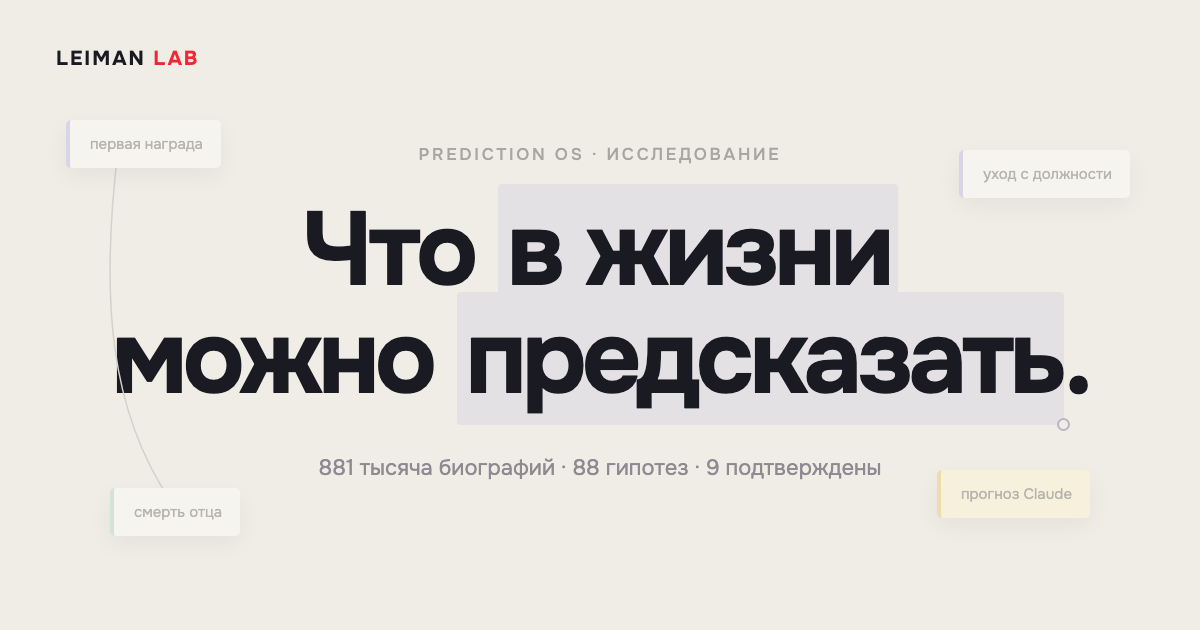
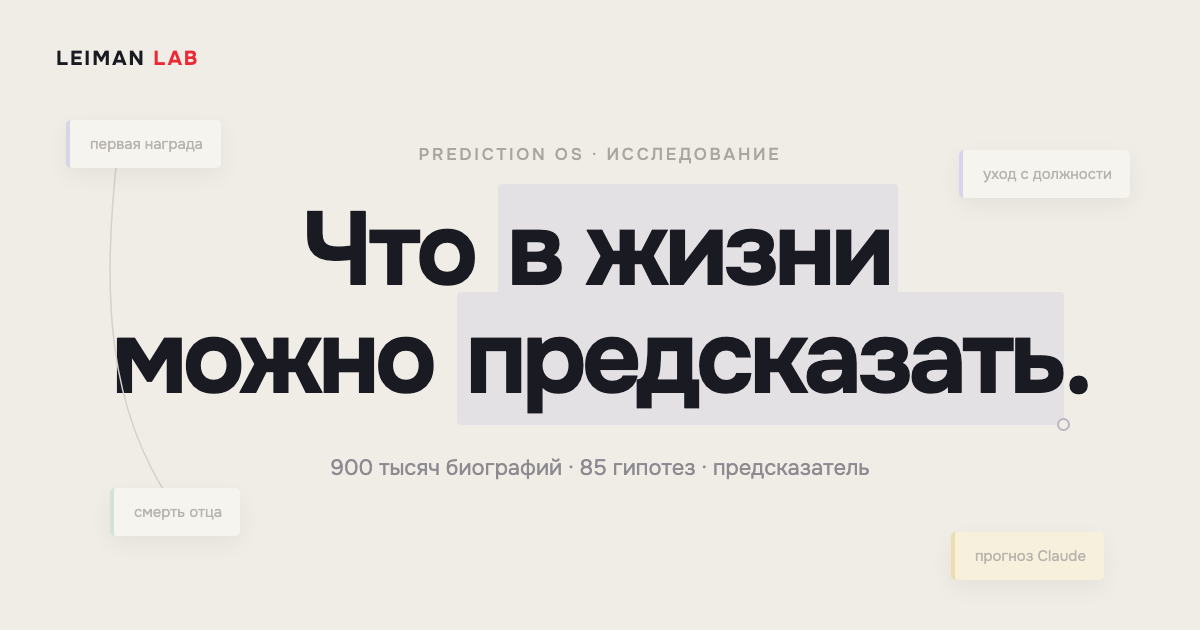
Prediction OS page: quiz "Спросите предсказателя" and results of 17.11
- 10-question quiz in the browser: lifespan shift, recognition, marriage,
  stress (Holmes-Rahe), early mood, self-employment cards from confirmed results
- Stats 900k people, 85 of 88 tested; early Olympic medal finding; what did not hold
- Share cover and description updated

Changed region(s): [[0.2467, 0.7238, 0.74, 0.754], [0.7708, 0.8444, 0.925, 0.9048], [0.7708, 0.754, 0.8942, 0.8143]]

diff --git a/leiman-lab-journal/public/assets/predictions-quiz.js b/leiman-lab-journal/public/assets/predictions-quiz.js
@@ -1,0 +1,179 @@
+/* Prediction OS quiz: answers stay in the browser; every number comes from a Prediction OS result. */
+(() => {
+  const root = document.getElementById('pr-quiz');
+  if (!root) return;
+
+  const SRC = {
+    wd: 'известные люди, Викиданные 1870–1900-х',
+    cent: 'Laouenan, 1500–1849',
+    nlsy: 'NLSY97, США, 8 984 человека с 1997 года',
+    cong: 'Конгресс США',
+    oly: 'олимпийцы 1896–2024',
+    imdb: 'IMDb, люди кино',
+    nobel: 'Нобелевская премия',
+  };
+
+  const Q = [
+    { id: 'age', q: 'Сколько вам лет?', opts: [['u25', 'до 25'], ['25_34', '25–34'], ['35_49', '35–49'], ['50_64', '50–64'], ['65p', '65 и старше']] },
+    { id: 'work', q: 'Чем вы в основном занимаетесь?', opts: [
+      ['acad', 'наука или преподавание в вузе'], ['mil', 'военная или силовая служба'], ['sport', 'профессиональный спорт'],
+      ['risk', 'работа с риском травм: каскадёры, высота, шахта'], ['poet', 'поэзия, литература'], ['dipl', 'дипломатия, госслужба'], ['other', 'другое']] },
+    { id: 'father', q: 'Вы работаете в той же сфере, что ваш отец?', opts: [['yes', 'да'], ['no', 'нет'], ['unk', 'не знаю']] },
+    { id: 'award', q: 'Была ли у вас заметная награда или премия?', opts: [
+      ['none', 'нет'], ['u40', 'да, до 40 лет'], ['o40', 'да, после 40 лет'], ['medal', 'спортивная медаль до 23 лет']] },
+    { id: 'sib', q: 'Если брат или сестра уже умерли — в каком возрасте?', opts: [['none', 'никто не умер / нет братьев и сестёр'], ['u50', 'до 50'], ['50_64', '50–64'], ['65_79', '65–79'], ['80p', '80 и старше']] },
+    { id: 'exit', q: 'Вы окончательно ушли с работы или должности за последние три года?', opts: [['yes', 'да'], ['no', 'нет']] },
+    { id: 'marr', q: 'Семейное положение?', opts: [['none', 'не в браке'], ['f12', 'первый брак, 1–2 года'], ['f36', 'первый брак, 3–6 лет'], ['f7', 'первый брак, 7 лет и больше'], ['second', 'второй или следующий брак']] },
+    { id: 'stress', multi: true, q: 'Что из этого случилось с вами за последние два года?', hint: 'Можно выбрать несколько.', opts: [
+      ['100', 'смерть супруга или партнёра'], ['73', 'развод'], ['65', 'раздельное проживание с партнёром'], ['63', 'заключение'],
+      ['63b', 'смерть близкого родственника'], ['53', 'серьёзная травма или болезнь'], ['50', 'свадьба'], ['47', 'увольнение'],
+      ['45', 'выход на пенсию'], ['40', 'беременность'], ['38', 'резкая перемена в деньгах'], ['36', 'смена работы'], ['20', 'переезд']] },
+    { id: 'mood', q: 'Было ли у вас в 16–20 лет долгое, на недели, подавленное состояние?', opts: [['yes', 'да'], ['no', 'нет'], ['unk', 'не помню']] },
+    { id: 'self', q: 'Сколько лет до 30 вы работали на себя?', opts: [['0', 'ни года'], ['1', 'около года'], ['2', '2–3 года'], ['4', '4 года и больше']] },
+  ];
+
+  const WORK = {
+    acad: { d: 3.0, r: '+0,7…+6,5 года', t: 'Учёные и преподаватели вузов живут дольше остальных — в каждом проверенном поколении и в XVI–XIX веках.', s: SRC.wd + '; ' + SRC.cent },
+    mil: { d: -2.0, r: '−1,3…−3,1 года', t: 'Военные живут меньше — и у известных людей XX века, и в XVI–XIX веках.', s: SRC.wd + '; ' + SRC.cent },
+    sport: { d: -2.5, r: '−1,6…−4,6 года', t: 'Профессиональные футболисты живут меньше остальных известных людей того же поколения.', s: SRC.wd },
+    risk: { d: -2.4, r: '−2,4 года', t: 'Каскадёры живут меньше остальных людей кино. Это то же, что у военных: опасная работа.', s: SRC.imdb },
+    poet: { d: -1.5, r: '−0,4…−2,6 года', t: 'Поэты живут меньше; разрыв растёт от XVI века к XIX и слабеет в XX.', s: SRC.cent + '; ' + SRC.wd },
+    dipl: { d: 1.8, r: '+0,8…+2,9 года', t: 'Дипломаты живут дольше остальных — у известных людей XX века и в XVI–XIX веках.', s: SRC.wd + '; ' + SRC.cent },
+  };
+  const SIB = { u50: 40, '50_64': 57, '65_79': 72, '80p': 86 };
+
+  let step = 0;
+  const ans = {};
+  const fmt = (x, d = 1) => (x > 0 ? '+' : x < 0 ? '−' : '') + Math.abs(x).toLocaleString('ru-RU', { maximumFractionDigits: d, minimumFractionDigits: d });
+  const pct = x => x.toLocaleString('ru-RU', { maximumFractionDigits: 1, minimumFractionDigits: 1 }) + ' %';
+
+  function renderQuestion() {
+    const item = Q[step];
+    const chosen = ans[item.id] || (item.multi ? [] : null);
+    root.innerHTML = `
+      <div class="pq-top"><span>Вопрос ${step + 1} из ${Q.length}</span><div class="pq-bar"><i style="width:${(step / Q.length) * 100}%"></i></div></div>
+      <h3 class="pq-q">${item.q}</h3>${item.hint ? `<p class="pq-hint">${item.hint}</p>` : ''}
+      <div class="pq-opts" role="${item.multi ? 'group' : 'radiogroup'}" aria-label="${item.q}">
+        ${item.opts.map(([v, l]) => {
+          const on = item.multi ? chosen.includes(v) : chosen === v;
+          return `<button type="button" class="pq-opt${on ? ' on' : ''}" data-v="${v}" role="${item.multi ? 'checkbox' : 'radio'}" aria-checked="${on}">${l}</button>`;
+        }).join('')}
+      </div>
+      <div class="pq-nav">
+        <button type="button" class="pq-back" ${step ? '' : 'disabled'}>← Назад</button>
+        ${item.multi ? `<button type="button" class="pr-button pq-next">${chosen.length ? 'Дальше' : 'Ничего из этого'}</button>` : ''}
+      </div>`;
+    root.querySelectorAll('.pq-opt').forEach(b => b.addEventListener('click', () => {
+      const v = b.dataset.v;
+      if (item.multi) {
+        const set = new Set(ans[item.id] || []);
+        set.has(v) ? set.delete(v) : set.add(v);
+        ans[item.id] = [...set];
+        renderQuestion();
+      } else {
+        ans[item.id] = v;
+        next();
+      }
+    }));
+    root.querySelector('.pq-back').addEventListener('click', () => { if (step) { step--; renderQuestion(); } });
+    const nx = root.querySelector('.pq-next');
+    if (nx) nx.addEventListener('click', () => { ans[item.id] = ans[item.id] || []; next(); });
+  }
+
+  function next() {
+    step++;
+    if (step < Q.length) renderQuestion();
+    else renderResult();
+  }
+
+  function card(big, title, text, src) {
+    return `<article class="pq-card"><b>${big}</b><div><h4>${title}</h4><p>${text}</p><small>${src}</small></div></article>`;
+  }
+
+  function renderResult() {
+    const cards = [];
+    let shift = 0;
+    const parts = [];
+
+    const w = WORK[ans.work];
+    if (w) {
+      shift += w.d; parts.push('профессия');
+      cards.push(card(w.r, 'Срок жизни: ваша работа', w.t, w.s));
+    }
+    if (ans.sib && SIB[ans.sib]) {
+      const s = 0.16 * (SIB[ans.sib] - 72);
+      shift += s; parts.push('брат или сестра');
+      cards.push(card(fmt(s) + ' года', 'Срок жизни: судьба брата или сестры',
+        'Возраст смерти брата или сестры предсказывает ваш сверх возраста смерти отца: на каждый год их жизни — примерно 0,12–0,20 года вашей. Сравнение — с теми, чьи братья и сёстры умерли около 72 лет.', SRC.wd));
+    }
+    if (ans.award === 'medal') {
+      shift -= 1.3; parts.push('ранняя медаль');
+      cards.push(card('−1,3 года', 'Срок жизни: ранняя медаль',
+        'Олимпийцы, впервые взявшие медаль до 23 лет, живут меньше тех, кто взял первую после 28. Скорее всего, дело в здоровье: поздняя медаль требует долго оставаться в форме.', SRC.oly));
+    }
+    if (ans.award === 'u40') {
+      cards.push(card('27 %', 'Следующее признание за 10 лет',
+        'У известных людей с наградой до 40 лет следующая награда за 10 лет случается в 27 % случаев, без наград — в 2 %. Одинаково в трёх поколениях.', SRC.wd));
+    }
+    if (ans.award === 'o40') {
+      cards.push(card('+1,6 года', 'Позднее признание',
+        'Нобелевские лауреаты живут после премии дольше номинантов-ровесников. Для обычных наград после 40 у известных людей такой прибавки нет — в сумму это не входит.', SRC.nobel + '; ' + SRC.wd));
+    }
+    if (ans.father === 'yes') {
+      cards.push(card('×3', 'Вы в сфере отца',
+        'Так делают около 38–40 % известных людей — втрое чаще, чем было бы при случайном совпадении профессий.', SRC.wd));
+    }
+    if (ans.exit === 'yes') {
+      cards.push(card('+2–6 п. п.', 'Первые три года после ухода',
+        'После окончательного ухода с должности известные люди и члены Конгресса умирают в ближайшие три года чаще ровесников, которые ещё работают. Часть уходов — из-за болезни; но и сам уход совпадает с ростом риска.', SRC.wd + '; ' + SRC.cong));
+    }
+    const m = ans.marr;
+    if (m === 'second') cards.push(card('32 %', 'Брак: ближайшие 5 лет', 'Вторые браки распадаются за пять лет в 32 % случаев, первые — в 20 %.', SRC.nlsy));
+    if (m === 'f12') cards.push(card('5,8 %', 'Брак: пик впереди', 'Риск распада выше всего на третьем году брака — 5,8 % в год, дальше снижается. «Кризиса седьмого года» в данных нет.', SRC.nlsy));
+    if (m === 'f36') cards.push(card('≈5 %', 'Брак: риск в этом году', 'Вы проходите самые рискованные годы: 5,8 % в год на третьем году, 5,0 % на седьмом. Дальше риск снижается.', SRC.nlsy));
+    if (m === 'f7') cards.push(card('≤5 %', 'Брак: риск снижается', 'После седьмого года риск распада падает: 5,0 % в год на седьмом году, 3,8 % на десятом. Пика на седьмом году нет.', SRC.nlsy));
+
+    const st = (ans.stress || []).map(v => parseInt(v, 10)).reduce((a, b) => a + b, 0);
+    const risk = 6 + 0.9 * st / 100;
+    cards.push(card(pct(risk), 'Здоровье: ближайшие два года',
+      st ? `Ваши события за два года дают ${st} баллов по шкале Холмса–Рахе. Каждые 100 баллов добавляют около 0,9 п. п. к риску заметного ухудшения здоровья (у всех — около 6 %). Сильнее всего связаны раздельное проживание, заключение, потеря работы — свадьба и рождение ребёнка почти нет.`
+        : 'Без больших событий за два года риск заметного ухудшения здоровья — около 6 %. Каждые 100 баллов по шкале Холмса–Рахе добавляют к нему около 0,9 п. п.', SRC.nlsy));
+
+    if (ans.mood === 'yes') cards.push(card('×3', 'Настроение через 15 лет',
+      'Подавленные в 16–20 лет в 31–35 лет подавлены втрое чаще остальных: 9,7 % против 3,0 %. Это прошлое предсказывает будущее, но не приговаривает — 90 % не подавлены. Если сейчас тяжело, поговорите со специалистом.', SRC.nlsy));
+
+    const se = parseInt(ans.self || '0', 10);
+    if (se > 0) cards.push(card(fmt(2.6 * Math.min(se, 4), 0) + ' перц.', 'Имущество к 40 годам',
+      'Каждый год работы на себя в 20–29 лет — примерно +2,6 перцентиля по имуществу в 40 лет сверх образования и способностей. Связь на пределе значимости; после четырёх лет мы её не проверяли.', SRC.nlsy));
+
+    const young = ans.age === 'u25';
+    root.innerHTML = `
+      <div class="pq-result">
+        <p class="pr-eyebrow">Предсказатель</p>
+        <div class="pq-head">
+          <div><span class="pq-big">${parts.length ? fmt(shift) : '0'}</span><span class="pq-unit">${parts.length ? 'года' : ''}</span></div>
+          <p>${parts.length ? `Сдвиг срока жизни относительно ровесников: ${parts.join(', ')}. Это грубая сумма средних по известным людям; у каждой части свой разброс, и вместе они складываются не строго.`
+            : 'Ваши ответы не сдвигают срок жизни относительно ровесников: ни профессия, ни судьба братьев и сестёр, ни ранняя медаль здесь не дают поправки.'}</p>
+        </div>
+        <div class="pq-cards">${cards.join('')}</div>
+        <div class="pq-honest">
+          <h4>Насколько этому верить</h4>
+          <p>Это средние по сотням тысяч людей, а не ваша судьба. На год вперёд мы предсказываем неплохо — например, безработицу по прошлой работе (AUC 0,95). На 10–20 лет вперёд точность всего на 2–4 % лучше, чем просто взять среднюю частоту.${young ? ' Большая часть данных — о взрослых и пожилых людях, для вашего возраста выводы ещё грубее.' : ''}</p>
+        </div>
+        <div class="pq-nav"><button type="button" class="pr-button pq-again">Пройти заново</button><a class="pr-link" href="#findings">Откуда эти цифры ↓</a></div>
+      </div>`;
+    root.querySelector('.pq-again').addEventListener('click', () => { for (const k in ans) delete ans[k]; step = 0; renderQuestion(); root.scrollIntoView({ behavior: 'smooth', block: 'start' }); });
+    root.scrollIntoView({ behavior: 'smooth', block: 'start' });
+  }
+
+  function renderIntro() {
+    root.innerHTML = `
+      <div class="pq-intro">
+        <div class="pq-dots" aria-hidden="true"><i></i><i></i><i></i></div>
+        <p>Около двух минут. Можно вернуться к любому вопросу.</p>
+        <button type="button" class="pr-button pq-start">Начать</button>
+      </div>`;
+    root.querySelector('.pq-start').addEventListener('click', renderQuestion);
+  }
+  renderIntro();
+})();

diff --git a/leiman-lab-journal/public/assets/predictions.html b/leiman-lab-journal/public/assets/predictions.html
@@ -15,19 +15,28 @@
   <div class="pr-inner">
     <p class="pr-eyebrow">Prediction OS · исследование Leiman Lab</p>
     <h1 id="pr-title"><span class="pr-line">Что <mark>в&nbsp;жизни</mark></span> <span class="pr-line">можно <mark class="end">предсказать</mark>.</span></h1>
-    <p class="pr-lead">Докторская Льва Леймана. Берём биографии почти 900 тысяч человек, от известных людей XVI века до американских подростков 1997 года, и смотрим, какие события видны заранее, за сколько лет и по каким данным.</p>
+    <p class="pr-lead">Докторская Льва Леймана. Берём биографии 900 тысяч человек, от известных людей XVI века до американских подростков 1997 года, и смотрим, какие события видны заранее, за сколько лет и по каким данным.</p>
     <div class="pr-actions">
-      <a class="pr-button" href="#findings">Что подтвердилось</a>
-      <a class="pr-link" href="#method">Как мы проверяем ↓</a>
+      <a class="pr-button" href="#quiz">Спросить предсказателя</a>
+      <a class="pr-link" href="#findings">Что подтвердилось ↓</a>
     </div>
-    <p class="pr-note">Правила проверки публикуются до расчёта · 11 источников · обновлено 17.11.2026</p>
+    <p class="pr-note">Правила проверки публикуются до расчёта · 13 источников · обновлено 18.11.2026</p>
   </div>
 
   <div class="pr-stats" aria-label="Исследование в цифрах">
-    <div><b data-count="881" data-suffix=" тыс.">881 тыс.</b><span>человек в расчётах</span></div>
-    <div><b data-count="75" data-suffix=" из 88">75 из 88</b><span>гипотез уже проверено</span></div>
+    <div><b data-count="900" data-suffix=" тыс.">900 тыс.</b><span>человек в расчётах</span></div>
+    <div><b data-count="85" data-suffix=" из 88">85 из 88</b><span>гипотез уже проверено</span></div>
     <div><b data-count="9">9</b><span>подтвердились на новых данных</span></div>
     <div><b data-count="484" data-suffix=" года">484 года</b><span>годы рождения: с 1500 по 1984</span></div>
+  </div>
+</section>
+
+<section class="pr-section pr-quiz-wrap" id="quiz" aria-labelledby="quiz-title">
+  <p class="pr-eyebrow">Попробуйте</p>
+  <h2 id="quiz-title">Спросите предсказателя</h2>
+  <p class="pr-sub">Десять вопросов о работе, семье и последних двух годах. Предсказатель сравнит ответы с тем, что мы нашли на сотнях тысяч жизней, и покажет, что из этого следует для людей с похожими ответами. Ответы не покидают ваш браузер.</p>
+  <div class="pr-quiz" id="pr-quiz" aria-live="polite">
+    <noscript><p>Для предсказателя нужен JavaScript.</p></noscript>
   </div>
 </section>
 
@@ -41,10 +50,11 @@
     <li><b>+2–6 п. п.</b><div><h3>После ухода с должности смерть приходит быстрее</h3><p>У известных людей и у членов Конгресса США: в первые три года после окончательного ухода умирают чаще, чем ровесники, которые ещё работают.</p></div></li>
     <li><b>−2,4 года</b><div><h3>Опасная работа сокращает жизнь</h3><p>Военные живут меньше в XVI–XIX веках и в XX веке, каскадёры — меньше остальных людей кино.</p></div></li>
     <li><b>+1,6 года</b><div><h3>Нобелевская премия продлевает жизнь</h3><p>Лауреаты живут дольше номинантов-ровесников, которые премию так и не получили. Зал славы бейсбола и олимпийские медали такой прибавки не дают.</p></div></li>
+    <li><b>−1,3 года</b><div><h3>Ранняя медаль — короче жизнь</h3><p>Олимпийцы, впервые взявшие медаль до 23 лет, живут меньше тех, кто взял первую медаль после 28. Внутри одного вида спорта, страны и поколения.</p></div></li>
     <li><b>53 %</b><div><h3>Как пришёл к власти, так и ушёл</h3><p>Правители, пришедшие не по правилам, в 53 % случаев кончают изгнанием, тюрьмой или смертью. Пришедшие по правилам — в 17 %.</p></div></li>
     <li><b>×1,09</b><div><h3>Месяц рождения</h3><p>Люди немного чаще умирают в месяц своего рождения. Мелкий, но устойчивый эффект во всех трёх поколениях.</p></div></li>
   </ol>
-  <p class="pr-aside"><b>Не подтвердилось или зависит от эпохи.</b> Смерть ребёнка сильно била по родителям 1870–1890-х годов рождения и почти не сказывается у родившихся в 1900-х. Эффект вдовства слабеет от поколения к поколению.</p>
+  <p class="pr-aside"><b>Не подтвердилось или зависит от эпохи.</b> Смерть ребёнка сильно била по родителям 1870–1890-х годов рождения и почти не сказывается у родившихся в 1900-х. Эффект вдовства слабеет от поколения к поколению. «Кризиса седьмого года» нет: браки чаще всего распадаются на третьем году. По книге, которую человек написал в 20–50 лет, срок его жизни не угадать — ни по словам, ни чтением Claude. Модель, читающая жизнь помесячно (как life2vec), не точнее обычной таблицы.</p>
 </section>
 
 <section class="pr-section" id="method" aria-labelledby="method-title">
@@ -61,6 +71,7 @@
   </div>
 </section>
 </main>
+<script src="/assets/predictions-quiz.js" defer></script>
 <script>
 (()=>{const els=document.querySelectorAll('.pr-stats [data-count]');if(!('IntersectionObserver' in window)||matchMedia('(prefers-reduced-motion: reduce)').matches)return;
 const fmt=n=>n.toLocaleString('ru-RU');

diff --git a/leiman-lab-journal/public/assets/predictions.css b/leiman-lab-journal/public/assets/predictions.css
@@ -95,3 +95,39 @@ body[data-page="predictions"] .site-footer{background:var(--pr-ink);color:#f5f3e
   .pr-stats span{font-size:13px}
 }
 @media(prefers-reduced-motion:reduce){.pr-node{animation:none}.pr-button{transition:none}}
+
+/* quiz */
+.pr-quiz{margin-top:44px;padding:clamp(24px,4vw,44px);background:var(--pr-node);border-radius:10px;box-shadow:0 1px 2px rgba(26,26,34,.04),0 18px 48px rgba(26,26,34,.06);font-family:var(--pr-sans);min-height:300px}
+.pq-intro{display:flex;flex-direction:column;align-items:center;justify-content:center;gap:22px;min-height:240px;text-align:center}
+.pq-intro p{margin:0;color:var(--pr-soft);font:400 16px/1.6 var(--pr-sans)}
+.pq-dots{display:flex;gap:10px}.pq-dots i{width:44px;height:28px;border-radius:4px;background:#e9e5ef;border-left:3px solid #d9d4e8}.pq-dots i:nth-child(2){background:#e6efe8;border-color:#d3e3d6}.pq-dots i:nth-child(3){background:var(--pr-warm);border-color:#ecdcae}
+.pq-top{display:flex;align-items:center;gap:18px;color:var(--pr-faint);font:500 12px/1 var(--pr-sans);letter-spacing:.1em;text-transform:uppercase}
+.pq-top span{white-space:nowrap}
+.pq-bar{flex:1;height:3px;border-radius:3px;background:var(--pr-line);overflow:hidden}.pq-bar i{display:block;height:100%;background:var(--pr-ink);transition:width .35s ease}
+.pq-q{margin:30px 0 0;font:700 clamp(24px,3vw,32px)/1.2 var(--pr-sans);letter-spacing:-.025em}
+.pq-hint{margin:8px 0 0;color:var(--pr-faint);font:400 14px/1.5 var(--pr-sans)}
+.pq-opts{display:flex;flex-wrap:wrap;gap:10px;margin-top:26px}
+.pq-opt{padding:13px 20px;border:1px solid var(--pr-line);border-radius:999px;background:#fbfaf7;color:var(--pr-ink);font:400 16px/1.3 var(--pr-sans);cursor:pointer;text-align:left;transition:border-color .15s,background .15s,transform .15s}
+.pq-opt:hover{border-color:#b9b5c3;transform:translateY(-1px)}
+.pq-opt.on{background:var(--pr-ink);border-color:var(--pr-ink);color:#f5f3ef}
+.pq-opt:focus-visible,.pq-back:focus-visible,.pr-quiz .pr-button:focus-visible{outline:2px solid var(--pr-ink);outline-offset:3px}
+.pq-nav{display:flex;align-items:center;justify-content:space-between;gap:18px;flex-wrap:wrap;margin-top:34px}
+.pq-back{padding:0;border:0;background:none;color:var(--pr-faint);font:400 15px var(--pr-sans);cursor:pointer}
+.pq-back:hover{color:var(--pr-ink)}.pq-back[disabled]{visibility:hidden}
+.pr-quiz .pr-button{border:0;cursor:pointer}
+.pq-head{display:grid;grid-template-columns:auto 1fr;gap:28px;align-items:center;margin-top:6px;padding-bottom:28px;border-bottom:1px solid var(--pr-line)}
+.pq-big{font:700 clamp(54px,7vw,84px)/1 var(--pr-sans);letter-spacing:-.045em}
+.pq-unit{margin-left:8px;color:var(--pr-soft);font:500 20px var(--pr-sans)}
+.pq-head p{margin:0;color:var(--pr-soft);font:400 16px/1.65 var(--pr-sans)}
+.pq-cards{display:grid;grid-template-columns:1fr 1fr;gap:14px;margin-top:28px}
+.pq-card{display:flex;flex-direction:column;gap:12px;padding:20px 22px;background:#fbfaf7;border-radius:6px;border-left:3px solid #d9d4e8}
+.pq-card:nth-child(3n+2){border-left-color:#d3e3d6}.pq-card:nth-child(3n+3){border-left-color:#ecdcae}
+.pq-card>b{font:700 26px/1.1 var(--pr-sans);letter-spacing:-.02em}
+.pq-card h4{margin:0 0 6px;font:600 17px/1.3 var(--pr-sans)}
+.pq-card p{margin:0;color:var(--pr-soft);font:400 15px/1.6 var(--pr-sans)}
+.pq-card small{display:block;margin-top:10px;color:var(--pr-faint);font:400 12px/1.4 var(--pr-sans)}
+.pq-honest{margin-top:24px;padding:20px 22px;background:#e9e5dd;border-radius:6px}
+.pq-honest h4{margin:0 0 6px;font:600 16px/1.3 var(--pr-sans)}
+.pq-honest p{margin:0;color:#55525a;font:400 15px/1.65 var(--pr-sans)}
+@media(max-width:700px){.pq-cards{grid-template-columns:1fr}.pq-head{grid-template-columns:1fr;gap:12px}.pq-opt{width:100%}.pq-nav .pr-button{width:auto}}
+@media(prefers-reduced-motion:reduce){.pq-bar i,.pq-opt{transition:none}}
